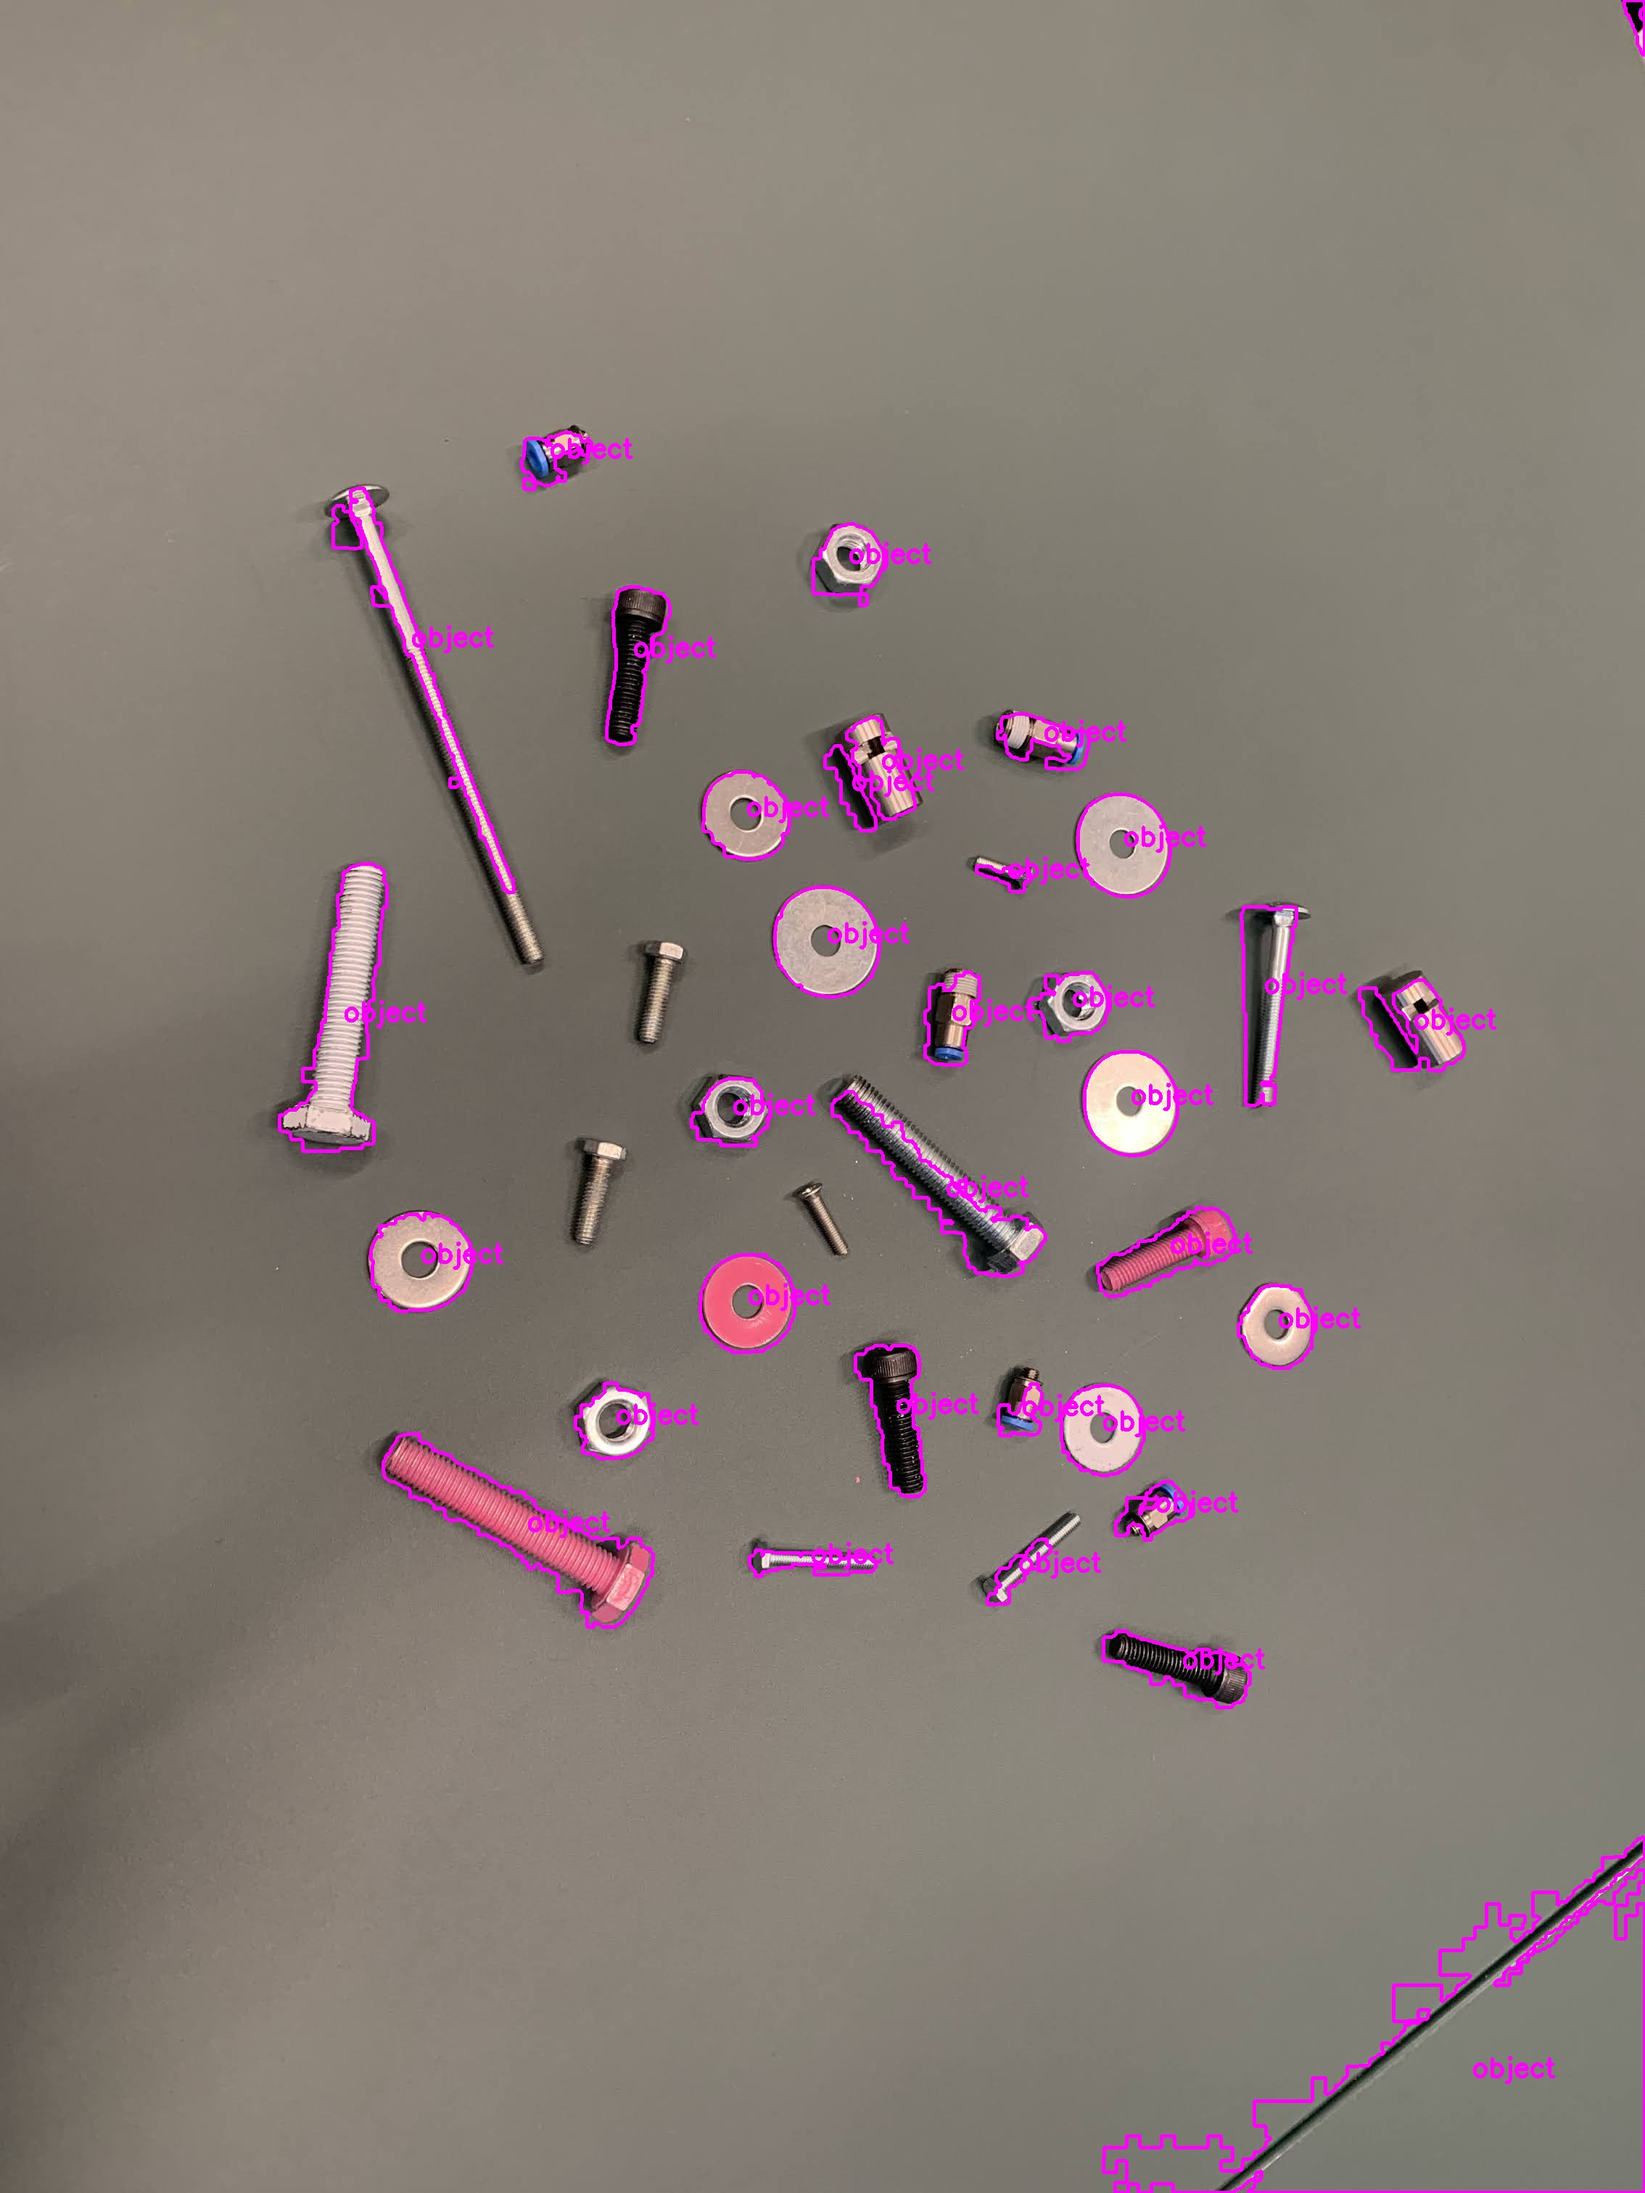
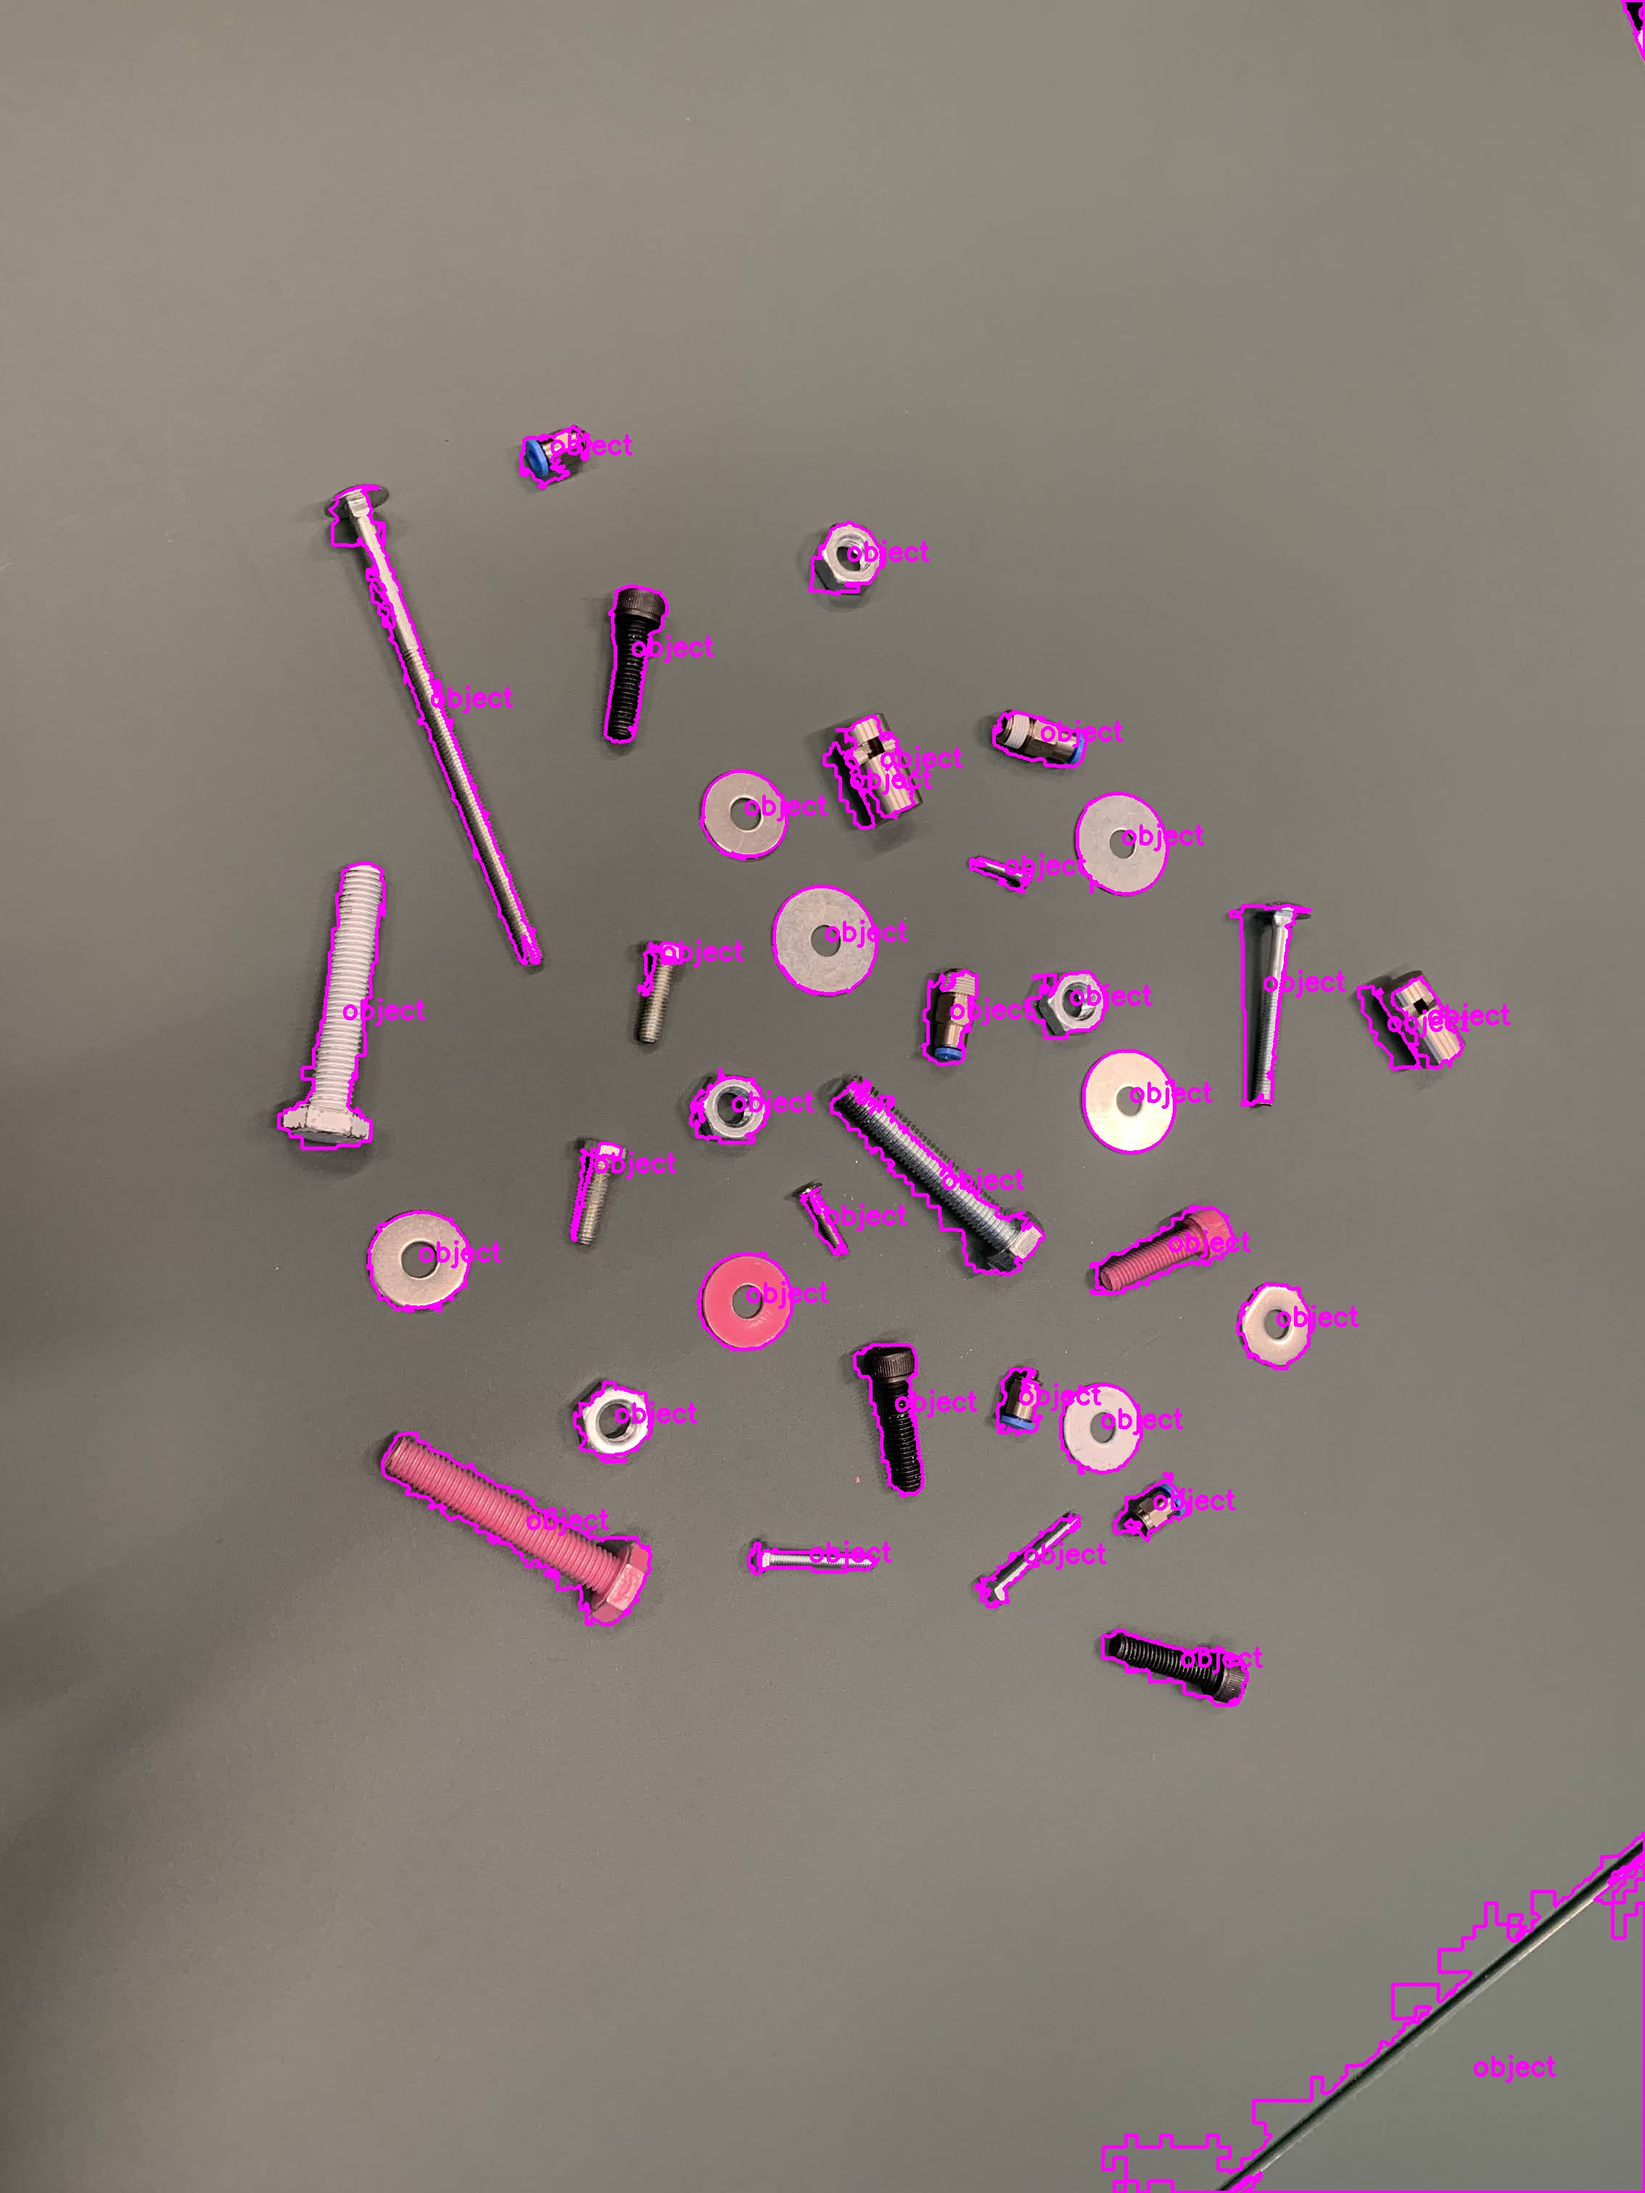
added type-hinting library and added python to requirements

diff --git a/Conventional.py b/Conventional.py
@@ -1,8 +1,10 @@
+# This document isn't written in PEP8, will try and change this to a later date.
 # -=-=-=- IMPORT LIBRARY'S -=-=-=- #
 import numpy as np
 import cv2 as cv
 import os
 import glob
+from typing import List
 
 # -=-=-=-=- CLASSES -=-=-=-=- #
 
@@ -35,7 +37,7 @@ def find_color(contour, original_image) -> str:
 # -=-=-=- VARIABLES -=-=-=- #
 
 # Folder variables
-images      = []
+images: List[image]  = []
 root_dir    = os.path.abspath("./")
 input_dir   = os.path.join(root_dir,'input_conventional','*.jpg')
 output_dir  = None # later defined 
@@ -50,12 +52,13 @@ filter_contour_area = 900
 # how big the kernel should be for the dilation / erosion.
 kernel = np.ones((4, 4), np.uint8)
 
-# pre-defined colors
+# pre-defined colors & min rmse
 white  = np.array(["red",    (255,255,255)], dtype=object)
 black  = np.array(["black",  (0, 0, 0)],     dtype=object)
 pink   = np.array(["pink",   (300, 90 ,53)], dtype=object)
 metal  = np.array(["metal",  (0, 67 ,67)],   dtype=object)
-colors = (white, black, pink, metal)
+colors = np.array([white, black, pink, metal])
+min_rmse = 1000000
 
 # -=-=-=- READ IMAGES  -=-=-=- #
 
@@ -75,12 +78,12 @@ for img in images:
     mask = cv.inRange(hsv_image, lower_color, upper_color)
     mask = cv.bitwise_not(mask)
     
-    mask = cv.erode(mask, kernel, iterations=1)
-    mask = cv.erode(mask, kernel, iterations=1)
+    cv.erode(mask, kernel, iterations=1)
+    cv.erode(mask, kernel, iterations=1)
 
-    mask = cv.dilate(mask, kernel, iterations=1)
-    mask = cv.dilate(mask, kernel, iterations=1)
-    mask = cv.dilate(mask, kernel, iterations=1)
+    cv.dilate(mask, kernel, iterations=1)
+    cv.dilate(mask, kernel, iterations=1)
+    cv.dilate(mask, kernel, iterations=1)
     
     # -=-=- FIND CONTOURS -=-=- #
     contours, hierarchy = cv.findContours(mask, cv.RETR_EXTERNAL, cv.CHAIN_APPROX_NONE)
@@ -97,25 +100,21 @@ for img in images:
             (x,y),(MA,ma),angle = cv.fitEllipse(contour)
             
             # -=- find closest color -=- #
-            color = find_color(contour, img)
+            color = find_color(img.cv_image , contour)
             
             # -=- find kind of object -=- #
-            identified_item = find_object(contour, img)
+            identified_item = find_object(img.cv_image, contour)
             
             # -=- add to list -=- #
             item = object(contour, identified_item, (cX, cY), angle, color)
             img.add_contour(item)
-            # img.contours = lijst aan contouren -> img.contours = lijst aan objects
 
     # print("found", len(img.contours), "contours in", img.name)
 
-    # -=-=- draw contours and put text -=-=- #
-    # to make a specific contour, use cnt = contours[1], and cnt as a var (instead of img.contours)
-    
+    # -=-=- draw contours and put text -=-=- #    
     for contour in range(len(img.contours)):
-        
+        # to make a specific contour, use cnt = contours[1], and cnt as a var (instead of img.contours)
         cv.drawContours(img.cv_image, img.contours[contour].outline, -1, (255,0,255), 3)
-        
         cv.putText(img.cv_image, img.contours[contour].kind_of_object, img.contours[contour].position, cv.FONT_HERSHEY_SIMPLEX, 1.2, (255, 0, 255), 3)
     
     # -=-=- save image -=-=- #
